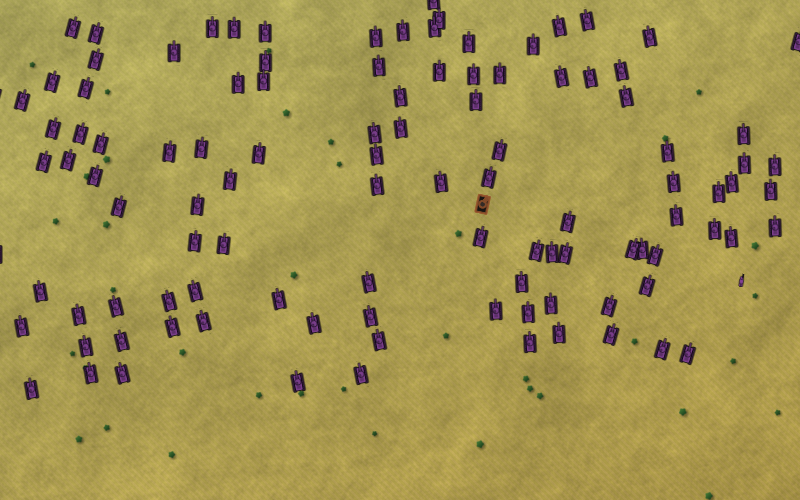
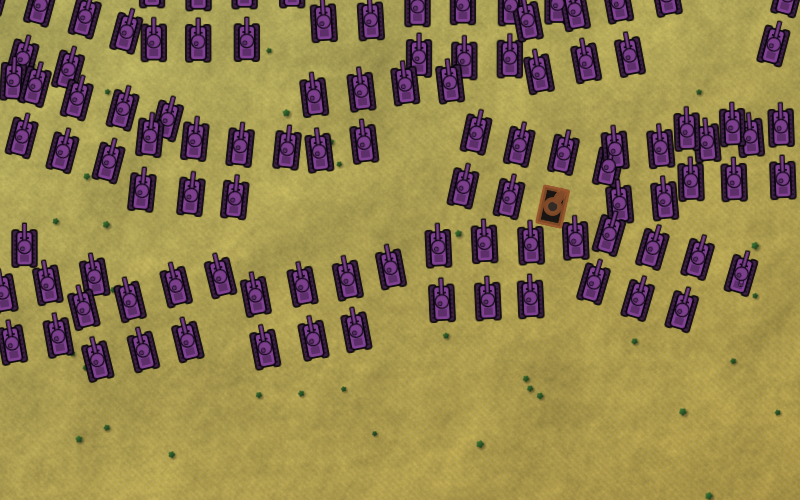
PLAN 7.9c: tanks at T3 in ranks of four facing the enemy, twice the size
A tank element's figures were a shuffled 4 x 4 grid of a 0.024-cell
footprint, a light hull 6.8 px at 10 m/px. They are now ranks of four
across its facing, the front rank first, each tank 0.0115 cells (a light
hull 14 px at 10 m/px), on the ground of its slot; a turret turned
across the rank keeps its muzzle clear of the next tank. ADR-469.

Claude-Session: https://claude.ai/code/session_018U3yBjvLEmwAi2BbRYrcnj

Changed region(s): [[0.0, 0.0, 1.0, 0.78], [0.9375, 0.0, 1.0, 0.15], [0.0312, 0.75, 0.0625, 0.81]]

diff --git a/tests/unit/tankRanks.test.ts b/tests/unit/tankRanks.test.ts
@@ -1,0 +1,94 @@
+import { describe, expect, it } from 'vitest';
+import { muzzleOf } from '../../src/render/units/atlas';
+import { figureCells, figureOffsets, gridSide, TANK_CELLS } from '../../src/render/units/individuals';
+import { SIZE_1938 } from '../../src/sim/scenario1938';
+import { Frame } from '../../src/shared/unitLooks';
+
+// PLAN 7.9c (critic run 7, tanks 5: "at 10 m/px a tank is about 8 px ... in a loose grid with no
+// formation or facing"): a tank element's figures were a shuffled 4 × 4 grid of a 0.024-cell
+// footprint, a light hull 6.8 px at 10 m/px. They are now ranks of four across its facing, the front
+// rank first, each tank TANK_CELLS.
+
+const KM_PER_CELL = 40075 / SIZE_1938.w;
+/** A light hull is 40 px of a 64-px frame. */
+const HULL = 40 / 64;
+
+describe('tanks at T3 in ranks (PLAN 7.9c)', () => {
+  it('a light tank is at least 14 px long at 10 m/px', () => {
+    const pxPerCell = (KM_PER_CELL * 1000) / 10;
+    const px = figureCells(gridSide(Frame.tank, 10)) * pxPerCell * HULL;
+    process.stderr.write(`a light hull at 10 m/px: ${px.toFixed(1)} px (TANK_CELLS ${TANK_CELLS})\n`);
+    expect(px).toBeGreaterThanOrEqual(14);
+  });
+
+  it('ten tanks are ranks of four across the facing (4, 4, 2), the front rank toward it', () => {
+    for (const facing of [0, 0.7, Math.PI / 2, 2.5, -1.2]) {
+      const side = gridSide(Frame.tankMedium, 10);
+      const off = figureOffsets(17, side, 10, facing);
+      const [fx, fy] = [Math.cos(facing), Math.sin(facing)];
+      // Along the facing and across it.
+      const along = Array.from({ length: 10 }, (_, k) => off[k * 2]! * fx + off[k * 2 + 1]! * fy);
+      const across = Array.from({ length: 10 }, (_, k) => -off[k * 2]! * fy + off[k * 2 + 1]! * fx);
+      const ranks = [along.slice(0, 4), along.slice(4, 8), along.slice(8)];
+      // Every tank of a rank ahead of every tank of the rank behind it.
+      expect(Math.min(...ranks[0]!)).toBeGreaterThan(Math.max(...ranks[1]!));
+      expect(Math.min(...ranks[1]!)).toBeGreaterThan(Math.max(...ranks[2]!));
+      // A rank is a line across the facing: spread across far more than along.
+      const spread = (l: number[]): number => Math.max(...l) - Math.min(...l);
+      expect(spread(across.slice(0, 4))).toBeGreaterThan(3 * spread(ranks[0]!));
+      // Left to right in order.
+      for (let k = 1; k < 4; k++) expect(across[k]!).toBeGreaterThan(across[k - 1]!);
+    }
+  });
+
+  it("a turret turned across the rank keeps its muzzle clear of the next tank's middle (more than 0.3 of a figure)", () => {
+    for (const frame of [Frame.tank, Frame.tankMedium, Frame.tankHeavy]) {
+      const whole = frame === Frame.tankHeavy ? 12 : 10;
+      const side = gridSide(frame, whole);
+      const cells = figureCells(side);
+      const [mx] = muzzleOf(frame);
+      for (const element of [1, 2, 3, 99, 1234]) {
+        const off = figureOffsets(element, side, whole, 0);
+        for (let k = 0; k < whole; k++) {
+          for (const turn of [Math.PI / 2, -Math.PI / 2, Math.PI / 4, 0]) {
+            const [x, y] = [off[k * 2]! + Math.cos(turn) * mx * cells, off[k * 2 + 1]! + Math.sin(turn) * mx * cells];
+            for (let j = 0; j < whole; j++) if (j !== k) expect(Math.hypot(x - off[j * 2]!, y - off[j * 2 + 1]!) / cells, `frame ${frame} element ${element} tank ${k} → ${j}`).toBeGreaterThan(0.3);
+          }
+        }
+      }
+    }
+  });
+
+  it("on the ground of the element's slot (0.03 cells apart), apart from each other, the same every time", () => {
+    for (const [frame, whole] of [[Frame.tank, 10], [Frame.tankMedium, 10], [Frame.tankHeavy, 12]] as const) {
+      const side = gridSide(frame, whole);
+      for (const element of [1, 77, 19_353]) {
+        // Facing east, square to the axes: every tank's middle within half a slot on each.
+        const off = figureOffsets(element, side, whole, 0);
+        for (let k = 0; k < whole; k++) {
+          expect(Math.abs(off[k * 2]!)).toBeLessThan(0.015);
+          expect(Math.abs(off[k * 2 + 1]!)).toBeLessThan(0.015);
+        }
+        let nearest = Infinity;
+        for (let i = 0; i < whole; i++) for (let j = i + 1; j < whole; j++) nearest = Math.min(nearest, Math.hypot(off[i * 2]! - off[j * 2]!, off[i * 2 + 1]! - off[j * 2 + 1]!));
+        // Never nearer than three quarters of a figure: no two hulls on one another.
+        expect(nearest / figureCells(side)).toBeGreaterThan(0.75);
+        expect(figureOffsets(element, side, whole, 0)).toEqual(off);
+      }
+    }
+  });
+
+  it('a loss takes the last tank; the others stand where they stood', () => {
+    const side = gridSide(Frame.tank, 10);
+    const all = figureOffsets(5, side, 10, 0.3);
+    expect(figureOffsets(5, side, 6, 0.3)).toEqual(all.slice(0, 12));
+  });
+
+  it('heavy tanks four abreast in three ranks', () => {
+    const side = gridSide(Frame.tankHeavy, 12);
+    const off = figureOffsets(3, side, 12, 0);
+    const along = Array.from({ length: 12 }, (_, k) => off[k * 2]!);
+    expect(Math.min(...along.slice(0, 4))).toBeGreaterThan(Math.max(...along.slice(4, 8)));
+    expect(Math.min(...along.slice(4, 8))).toBeGreaterThan(Math.max(...along.slice(8)));
+  });
+});

diff --git a/src/render/units/individuals.ts b/src/render/units/individuals.ts
@@ -62,11 +62,38 @@ export function figureCount(strength: number, size: number): number {
  * places when it is down to 16 of them.
  */
 export function gridSide(frame: number, whole: number): number {
+  if (whole <= TANK_ABREAST * TANK_RANKS && (frame === Frame.tank || frame === Frame.tankMedium || frame === Frame.tankHeavy)) return TANK_ROWS + TANK_ABREAST;
   return frame === Frame.infantry || whole > 16 ? 8 : 4;
+}
+
+/**
+ * Tanks at T3 (PLAN 7.9c, critic run 7: "at 10 m/px a tank is about 8 px ... in a loose grid with
+ * no formation or facing"): an element of tanks is ranks across its facing, the front rank first,
+ * TANK_ABREAST in a rank, each tank TANK_CELLS: a light hull 14 px at 10 m/px (a figure of the 4 × 4
+ * grid was 6.8). Its grid side is TANK_ROWS + TANK_ABREAST (`gridSide`), which `figureCells` and
+ * `figureOffsets` read. Four, not five: a turret turned across the rank reaches 0.41 to 0.44 of a
+ * figure (`muzzleOf`), and its muzzle must stay clear of the next tank's middle (more than 0.3 of a
+ * figure: ABREAST_PITCH less its jitter, 0.75, less 0.44), four ranks of that pitch fill a slot (0.03).
+ */
+export const TANK_ROWS = 100;
+/** A tank figure's side, cells (the size setting × this). */
+export const TANK_CELLS = 0.0115;
+/** Tanks in a rank, and ranks: an element of up to 12 (ten of light or medium tanks, twelve heavy). */
+const TANK_ABREAST = 4;
+const TANK_RANKS = 3;
+/** How far apart two tanks of a rank are, and two ranks, of TANK_CELLS; how far a tank stands off its place, of the pitch. */
+const ABREAST_PITCH = 0.82;
+const RANK_PITCH = 0.95;
+const TANK_JITTER = 0.04;
+
+/** Whether a grid side is a tank element's ranks (`gridSide`), and how many abreast. */
+export function abreastOf(side: number): number {
+  return side > TANK_ROWS ? side - TANK_ROWS : 0;
 }
 
 /** Side of one figure in a grid of `side`, cells. */
 export function figureCells(side: number): number {
+  if (abreastOf(side) > 0) return TANK_CELLS * sizeScale;
   return ((FOOTPRINT_CELLS * sizeScale) / side) * FILL;
 }
 
@@ -83,6 +110,8 @@ export function subSlotOrder(element: number, side: number): number[] {
  * toward `facing` (radians).
  */
 export function figureOffsets(element: number, side: number, count: number, facing: number, firingLine = false): number[] {
+  const abreast = abreastOf(side);
+  if (abreast > 0) return rankOffsets(element, abreast, count, facing);
   const pitch = (FOOTPRINT_CELLS * sizeScale) / side;
   const order = subSlotOrder(element, side);
   const fx = Math.cos(facing);
@@ -104,6 +133,30 @@ export function figureOffsets(element: number, side: number, count: number, faci
     const along = ((side - 1) / 2 - row + jy * jitterAlong) * pitch * depth + forward; // front row ahead of the centre
     // Forward (fx, fy); right-hand side (−fy, fx): as the slots of the formation's block.
     out.push(fx * along - fy * across, fy * along + fx * across);
+  }
+  return out;
+}
+
+/**
+ * The ranks of an element of tanks (PLAN 7.9c): `abreast` in a rank across `facing`, the front
+ * rank first, each tank a little off its place (TANK_JITTER of the pitch). The ranks are the
+ * layout's (TANK_RANKS), not the tanks left's, about the slot pose as the grid is; a loss takes the
+ * last tank, the others stand where they stood.
+ */
+function rankOffsets(element: number, abreast: number, count: number, facing: number): number[] {
+  const across = TANK_CELLS * sizeScale * ABREAST_PITCH;
+  const along = TANK_CELLS * sizeScale * RANK_PITCH;
+  const fx = Math.cos(facing);
+  const fy = Math.sin(facing);
+  const ranks = TANK_RANKS;
+  const out: number[] = [];
+  for (let k = 0; k < count; k++) {
+    const rank = Math.floor(k / abreast);
+    const col = k - rank * abreast;
+    const [jx, jy] = pair(hash2(element, 8192 + k));
+    const a = (col - (abreast - 1) / 2 + jx * TANK_JITTER) * across;
+    const l = ((ranks - 1) / 2 - rank + jy * TANK_JITTER) * along;
+    out.push(fx * l - fy * a, fy * l + fx * a);
   }
   return out;
 }

diff --git a/tests/unit/individuals.test.ts b/tests/unit/individuals.test.ts
@@ -1,7 +1,7 @@
 import { describe, expect, it } from 'vitest';
 import { hash2, pair } from '../../src/render/hash';
 import { Frame, shownFrame } from '../../src/shared/unitLooks';
-import { figureCells, figureCount, figureOffsets, firingFigure, FOOTPRINT_CELLS, gridSide, LINE_DEPTH, MAX_FIGURES, subSlotOrder } from '../../src/render/units/individuals';
+import { figureCells, figureCount, figureOffsets, firingFigure, FOOTPRINT_CELLS, gridSide, LINE_DEPTH, MAX_FIGURES, subSlotOrder, TANK_CELLS, TANK_ROWS } from '../../src/render/units/individuals';
 
 // PLAN 2.6 and 2.10b: an element as its individuals at T3 (ADR-69, ADR-80). How many, and where
 // each stands. The drawing and the sim's strengths are checked in the browser
@@ -60,7 +60,14 @@ describe('how many figures', () => {
 
   it('the grid is the whole element\'s: men 8 × 8; vehicles and guns 4 × 4, larger; more than 16 of them 8 × 8', () => {
     for (const whole of [1, 12, 40, 64]) expect(gridSide(Frame.infantry, whole)).toBe(8);
-    for (const f of [Frame.tank, Frame.gun, Frame.ship, Frame.aircraft]) {
+    // Since PLAN 7.9c (ADR-469) an element of up to 12 tanks is ranks of four, each tank TANK_CELLS
+    // (it was a 4 × 4 grid); more is a grid.
+    expect(gridSide(Frame.tank, 10)).toBe(TANK_ROWS + 4);
+    expect(gridSide(Frame.tankMedium, 10)).toBe(TANK_ROWS + 4);
+    expect(gridSide(Frame.tankHeavy, 12)).toBe(TANK_ROWS + 4);
+    expect(gridSide(Frame.tank, 17)).toBe(8);
+    expect(figureCells(gridSide(Frame.tank, 10))).toBe(TANK_CELLS);
+    for (const f of [Frame.gun, Frame.ship, Frame.aircraft]) {
       expect(gridSide(f, 10)).toBe(4);
       expect(gridSide(f, 16)).toBe(4);
       expect(gridSide(f, 17)).toBe(8);
@@ -85,7 +92,9 @@ describe('where they stand', () => {
 
   it('inside the footprint, apart from each other, the same every time', () => {
     // [frame, the figures of the whole element, the figures it has]: the last a mechanised battalion that has lost most of its men.
-    for (const [frame, whole, n] of [[Frame.infantry, 64, 64], [Frame.infantry, 64, 23], [Frame.tank, 10, 10], [Frame.gun, 12, 12], [Frame.tank, 64, 64], [Frame.tank, 64, 10]] as const) {
+    // (An element of up to 12 tanks is ranks since PLAN 7.9c, ADR-469, on the ground of its slot:
+    // `tankRanks.test.ts`. Of more, a grid, as here.)
+    for (const [frame, whole, n] of [[Frame.infantry, 64, 64], [Frame.infantry, 64, 23], [Frame.gun, 12, 12], [Frame.tank, 64, 64], [Frame.tank, 64, 10]] as const) {
       const side = gridSide(frame, whole);
       for (const element of [1, 77, 19_353]) {
         const off = figureOffsets(element, side, n, 0.7);
@@ -180,12 +189,13 @@ describe('where they stand', () => {
 // PLAN 3.6c: the figure a volley leaves.
 describe('the figure that fires', () => {
   it('is one of the figures the element has, where that figure stands', () => {
-    // Ten tanks, seven left: a 4 x 4 grid of the whole element.
-    const places = points(figureOffsets(42, 4, 7, 0.8));
+    // Ten tanks, seven left: the ranks of the whole element (PLAN 7.9c; a 4 x 4 grid before).
+    const side = gridSide(Frame.tankMedium, 10);
+    const places = points(figureOffsets(42, side, 7, 0.8));
     for (let tick = 0; tick < 200; tick++) {
       const f = firingFigure(42, tick, Frame.tankMedium, 7, 10, 0.8, true)!;
       expect(places.some(([x, y]) => x === f.dx && y === f.dy), `tick ${tick}`).toBe(true);
-      expect(f).toMatchObject({ frame: Frame.tankMedium, side: 4, facing: 0.8 });
+      expect(f).toMatchObject({ frame: Frame.tankMedium, side, facing: 0.8 });
     }
   });
 

diff --git a/tests/e2e/individuals1938.spec.ts b/tests/e2e/individuals1938.spec.ts
@@ -29,6 +29,8 @@ const MAX_FIGURES = 64;
 const figuresOf = (units: number, size: number): number => (size <= MAX_FIGURES ? units : Math.min(MAX_FIGURES, Math.ceil((units * MAX_FIGURES) / size)));
 /** How far from its element's middle a figure can stand: the corner of the footprint (0.024 cells square), and a hair. */
 const FOOTPRINT_REACH = 0.012 * Math.SQRT2 + 1e-9;
+/** A tank element's ranks (PLAN 7.9c): within the slot's half, 0.015, along and across its facing. */
+const TANK_REACH = 0.015 * Math.SQRT2 + 1e-9;
 
 // The ground about the site is occupied by Japan (since PLAN 3.5a): a division with ground of
 // its side within reach breaks off when its org is gone, and the Chinese one did, before three
@@ -189,7 +191,9 @@ test('T3: an element is its individuals, a figure a unit for guns and tanks and 
       // Since PLAN 2.14c1 a block in contact faces its enemy, at any angle: the footprint (a
       // square of 0.024 cells, turned with the block) is inside the circle through its corners.
       // (Until then every block of this test faced east, and the bound was the slot's half, 0.015, along each axis.)
-      for (const p of own) expect(Math.hypot(p.x - e.x, p.y - e.y), `a figure of ${e.id}`).toBeLessThan(FOOTPRINT_REACH);
+      // Tanks since PLAN 7.9c (ADR-469) stand in ranks on the ground of the slot: the circle through its corners.
+      const reach = cls.startsWith('armor_') ? TANK_REACH : FOOTPRINT_REACH;
+      for (const p of own) expect(Math.hypot(p.x - e.x, p.y - e.y), `a figure of ${e.id}`).toBeLessThan(reach);
       expect(new Set(own.map((p) => `${p.x},${p.y}`)).size).toBe(own.length);
       rows.push({ id: e.id, cls, units, size, figures: own.length });
     }

diff --git a/DECISIONS.md b/DECISIONS.md
@@ -167,6 +167,27 @@ level directly; hillshade at higher zoom adds procedural detail (SPEC §8 T2/T3)
 runtime. Regenerating assets is idempotent (`npm run data -- --check` fails on drift), and
 `tests/unit/data-manifest.test.ts` verifies sha256, sizes, known places and pyramid consistency.
 
+### ADR-469 · 2026-10-17 · accepted — Tanks at T3 in ranks of four, twice the size (PLAN 7.9c)
+
+- **Context.** Critic run 7 (tanks 5): "at 10 m/px a tank is about 8 px ... in a loose grid with no
+  formation or facing" (`critic/shots/c7d_7781_arm_0010m_crop.png`). A tank element's figures were a
+  shuffled 4 × 4 grid of the 0.024-cell footprint, each 0.0055 cells: a light hull 6.8 px at 10 m/px.
+- **Decision.** An element of up to 12 tanks (`gridSide` of a tank frame: TANK_ROWS + TANK_ABREAST)
+  is ranks of four across its facing, the front rank first (10: 4, 4, 2; 12 heavy: 4, 4, 4), each
+  tank TANK_CELLS (0.0115 cells: a light hull 14.1 px at 10 m/px), 0.82 of a tank apart in a rank
+  and 0.95 between ranks, 4 % jitter, on the ground of the element's slot (0.03 apart). Fixed by the
+  layout: a loss takes the last tank, the others stand where they stood. Four, not five: tried first,
+  five abreast at half a tank put a turret turned across the rank over its neighbour's middle
+  (`tankBattle1938`, `muzzles1938`: a flash 0.15 of a figure from the next tank); a muzzle reaches 0.41
+  to 0.44 of a figure. An element of more than 12, or of anything else, keeps its grid.
+- **Tests.** `tankRanks.test.ts` (new: 14 px; ranks across the facing, the front first; a muzzle
+  clear of every other tank at any turn; on the slot's ground; losses keep places; heavy in three
+  ranks). Changed to the layout: `individuals.test.ts` (a tank element of 10 is ranks, not 4 × 4; its
+  footprint case moved to `tankRanks`), the firing-figure test's grid side, `individuals1938` (a tank
+  figure within the slot's half, not the 0.024 footprint's). Green one at a time: `burning1938` ×2,
+  `formationFight1938`, `individuals1938`, `muzzles1938`, `stackBlocks1938` ×2, `tankBattle1938`,
+  `turrets1938`, `wrecksHeld1938`. Pictures `docs/evidence/7.9/c-tank-ranks-10m*.png` beside run 7's.
+
 ### ADR-468 · 2026-10-17 · accepted — Wrecks and hulls held by the game, and counted (PLAN 7.9a)
 
 - **Context.** Critic run 7 (tanks 5): "`wrecks` read `null` at every tier, so I saw no wreck". Its

diff --git a/PROGRESS.md b/PROGRESS.md
@@ -17793,3 +17793,17 @@ No rule changed and nothing on screen changed. One task came out of it.
   the ground. At about 8 px a tank's centre is its turret's outline and the lighter grey only came
   nearer the ground. Reverted; the spec kept aside for 7.9b.
 - **Next:** PLAN 7.9c (moved before 7.9b): the tanks' size and rows first.
+
+## 2026-10-17 — PLAN 7.9c: tanks at T3 in ranks of four, twice the size (render)
+
+- **Start:** gate green on a clean tree (`cb81002`).
+- **Done:** a tank element is ranks of four across its facing, the front rank first, each tank
+  0.0115 cells (a light hull 14.1 px at 10 m/px, was 6.8), on the slot's ground. Five abreast tried
+  first and dropped: a turret turned across the rank put its muzzle over the next tank. ADR-469.
+  Pictures `docs/evidence/7.9/c-tank-ranks-10m.png` (and `-full`) beside the critic's
+  `critic/shots/c7d_7781_arm_0010m_crop.png`.
+- **Tests:** `tankRanks.test.ts` (new); `individuals.test.ts`, `individuals1938` and the firing
+  figure's test follow the layout; ten tank specs green one at a time.
+- **For 7.9b:** the pixel test of the German tanks at 10 m/px now reads 79 grey (37 from the enemy's
+  figures, 27 under the ground).
+- **Next:** PLAN 7.9b.

diff --git a/PLAN.md b/PLAN.md
@@ -44,7 +44,7 @@ lines and evidence; R7-B1 and R7-B2 are PLAN 7.6 and 7.7). A task each, split wh
     - [x] 7.9a Wrecks seen: `WreckFx` gives its count to the test hook; wrecks drawn at T3 as at T2,
       and held long enough to be seen at the speeds a player watches a fight. AT: an armour fight
       at T3 with wrecks counted and in the picture.
-    - [ ] 7.9c Tanks larger at T3, in a formation facing the enemy: a tank element's figures in
+    - [x] 7.9c Tanks larger at T3, in a formation facing the enemy: a tank element's figures in
       rows across its facing, not a loose grid. AT: a tank at least 14 px at 10 m/px; the rows'
       facing toward the enemy in contact (a unit test of the offsets); pictures.
     - [ ] 7.9b Whose tank: a side's mark on each vehicle that reads on any ground and for a grey
